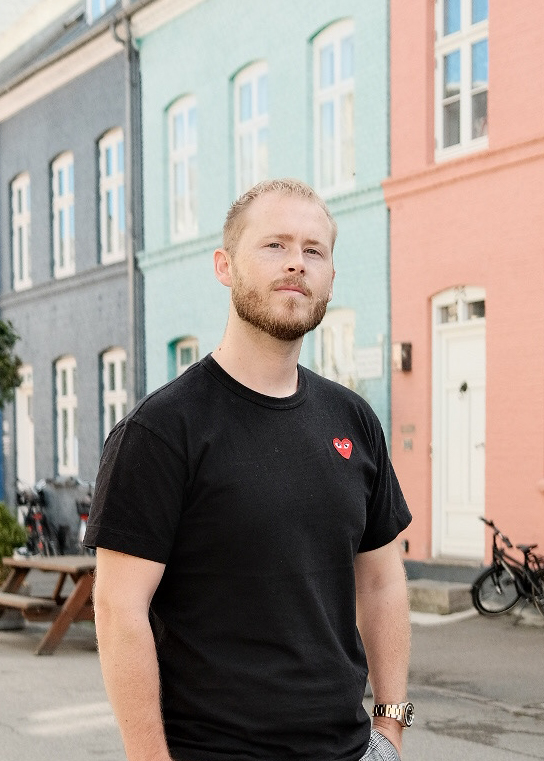
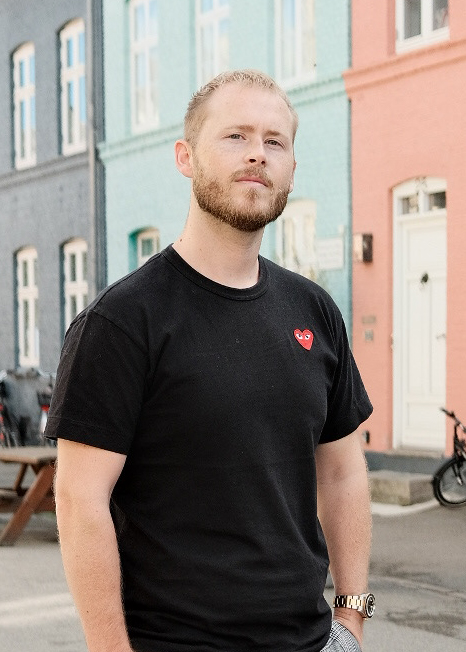
change styline on landing page

diff --git a/public/output.css b/public/output.css
@@ -699,6 +699,18 @@ video {
   margin-bottom: 2.5rem;
 }
 
+.mt-7{
+  margin-top: 1.75rem;
+}
+
+.mt-0{
+  margin-top: 0px;
+}
+
+.mt-\[-2\]{
+  margin-top: -2;
+}
+
 .flex{
   display: flex;
 }
@@ -733,6 +745,10 @@ video {
 
 .w-full{
   width: 100%;
+}
+
+.w-3\/4{
+  width: 75%;
 }
 
 .max-w-\[400px\]{
@@ -1086,6 +1102,46 @@ body,
   top: -115px;
 }
 
+.before\:top-0::before{
+  content: var(--tw-content);
+  top: 0px;
+}
+
+.before\:top-\[-5\]::before{
+  content: var(--tw-content);
+  top: -5;
+}
+
+.before\:top-\[-12\]::before{
+  content: var(--tw-content);
+  top: -12;
+}
+
+.before\:top-\[-16\]::before{
+  content: var(--tw-content);
+  top: -16;
+}
+
+.before\:top-\[-20\]::before{
+  content: var(--tw-content);
+  top: -20;
+}
+
+.before\:top-\[-36\]::before{
+  content: var(--tw-content);
+  top: -36;
+}
+
+.before\:top-\[-0\]::before{
+  content: var(--tw-content);
+  top: -0;
+}
+
+.before\:top-36::before{
+  content: var(--tw-content);
+  top: 9rem;
+}
+
 .before\:z-\[-1\]::before{
   content: var(--tw-content);
   z-index: -1;
@@ -1101,6 +1157,36 @@ body,
   height: 100%;
 }
 
+.before\:h-8::before{
+  content: var(--tw-content);
+  height: 2rem;
+}
+
+.before\:h-64::before{
+  content: var(--tw-content);
+  height: 16rem;
+}
+
+.before\:h-80::before{
+  content: var(--tw-content);
+  height: 20rem;
+}
+
+.before\:h-96::before{
+  content: var(--tw-content);
+  height: 24rem;
+}
+
+.before\:h-3\/4::before{
+  content: var(--tw-content);
+  height: 75%;
+}
+
+.before\:h-4\/5::before{
+  content: var(--tw-content);
+  height: 80%;
+}
+
 .before\:w-6::before{
   content: var(--tw-content);
   width: 1.5rem;
@@ -1109,6 +1195,11 @@ body,
 .before\:w-full::before{
   content: var(--tw-content);
   width: 100%;
+}
+
+.before\:w-5\/6::before{
+  content: var(--tw-content);
+  width: 83.333333%;
 }
 
 .before\:max-w-\[400px\]::before{

diff --git a/src/scenes/Landing.jsx b/src/scenes/Landing.jsx
@@ -15,12 +15,11 @@ const Landing = ({ setSelectedPage }) => {
       <div className="md:order-2 flex justify-center basis-3/5 z-10 mt-16 md:mt-32">
         {isAboveMediumScreens ? (
           <div
-            className="relative z-0 ml-20 before:absolute before:top-11  before:-left-20 before:rounded-t-[400px]
-            before:w-full before:max-w-[400px] md:before:max-w-[600px]    before:h-full before:border-2 before:border-blue before:z-[-1]"
+            className="relative z-0 ml-20 before:absolute before:-top-10  before:-left-20 before:rounded-t-[400px] before:w-5/6 before:max-w-[400px] md:before:max-w-[600px] before:h-4/5 before:border-2 before:border-blue before:z-[-1]"
             >
             <img
               alt="profile"
-              className="hover:filter mt-24 transition duration-500 z-10 w-full max-w-[400px] md:max-w-[600px] rounded-t-[400px]"
+              className="hover:filter mt-[-2] transition duration-500 z-10 w-5/6 max-w-[400px] md:max-w-[600px] rounded-t-[400px]"
               src={require("../assets/cph.jpg")}
             />
           </div>
